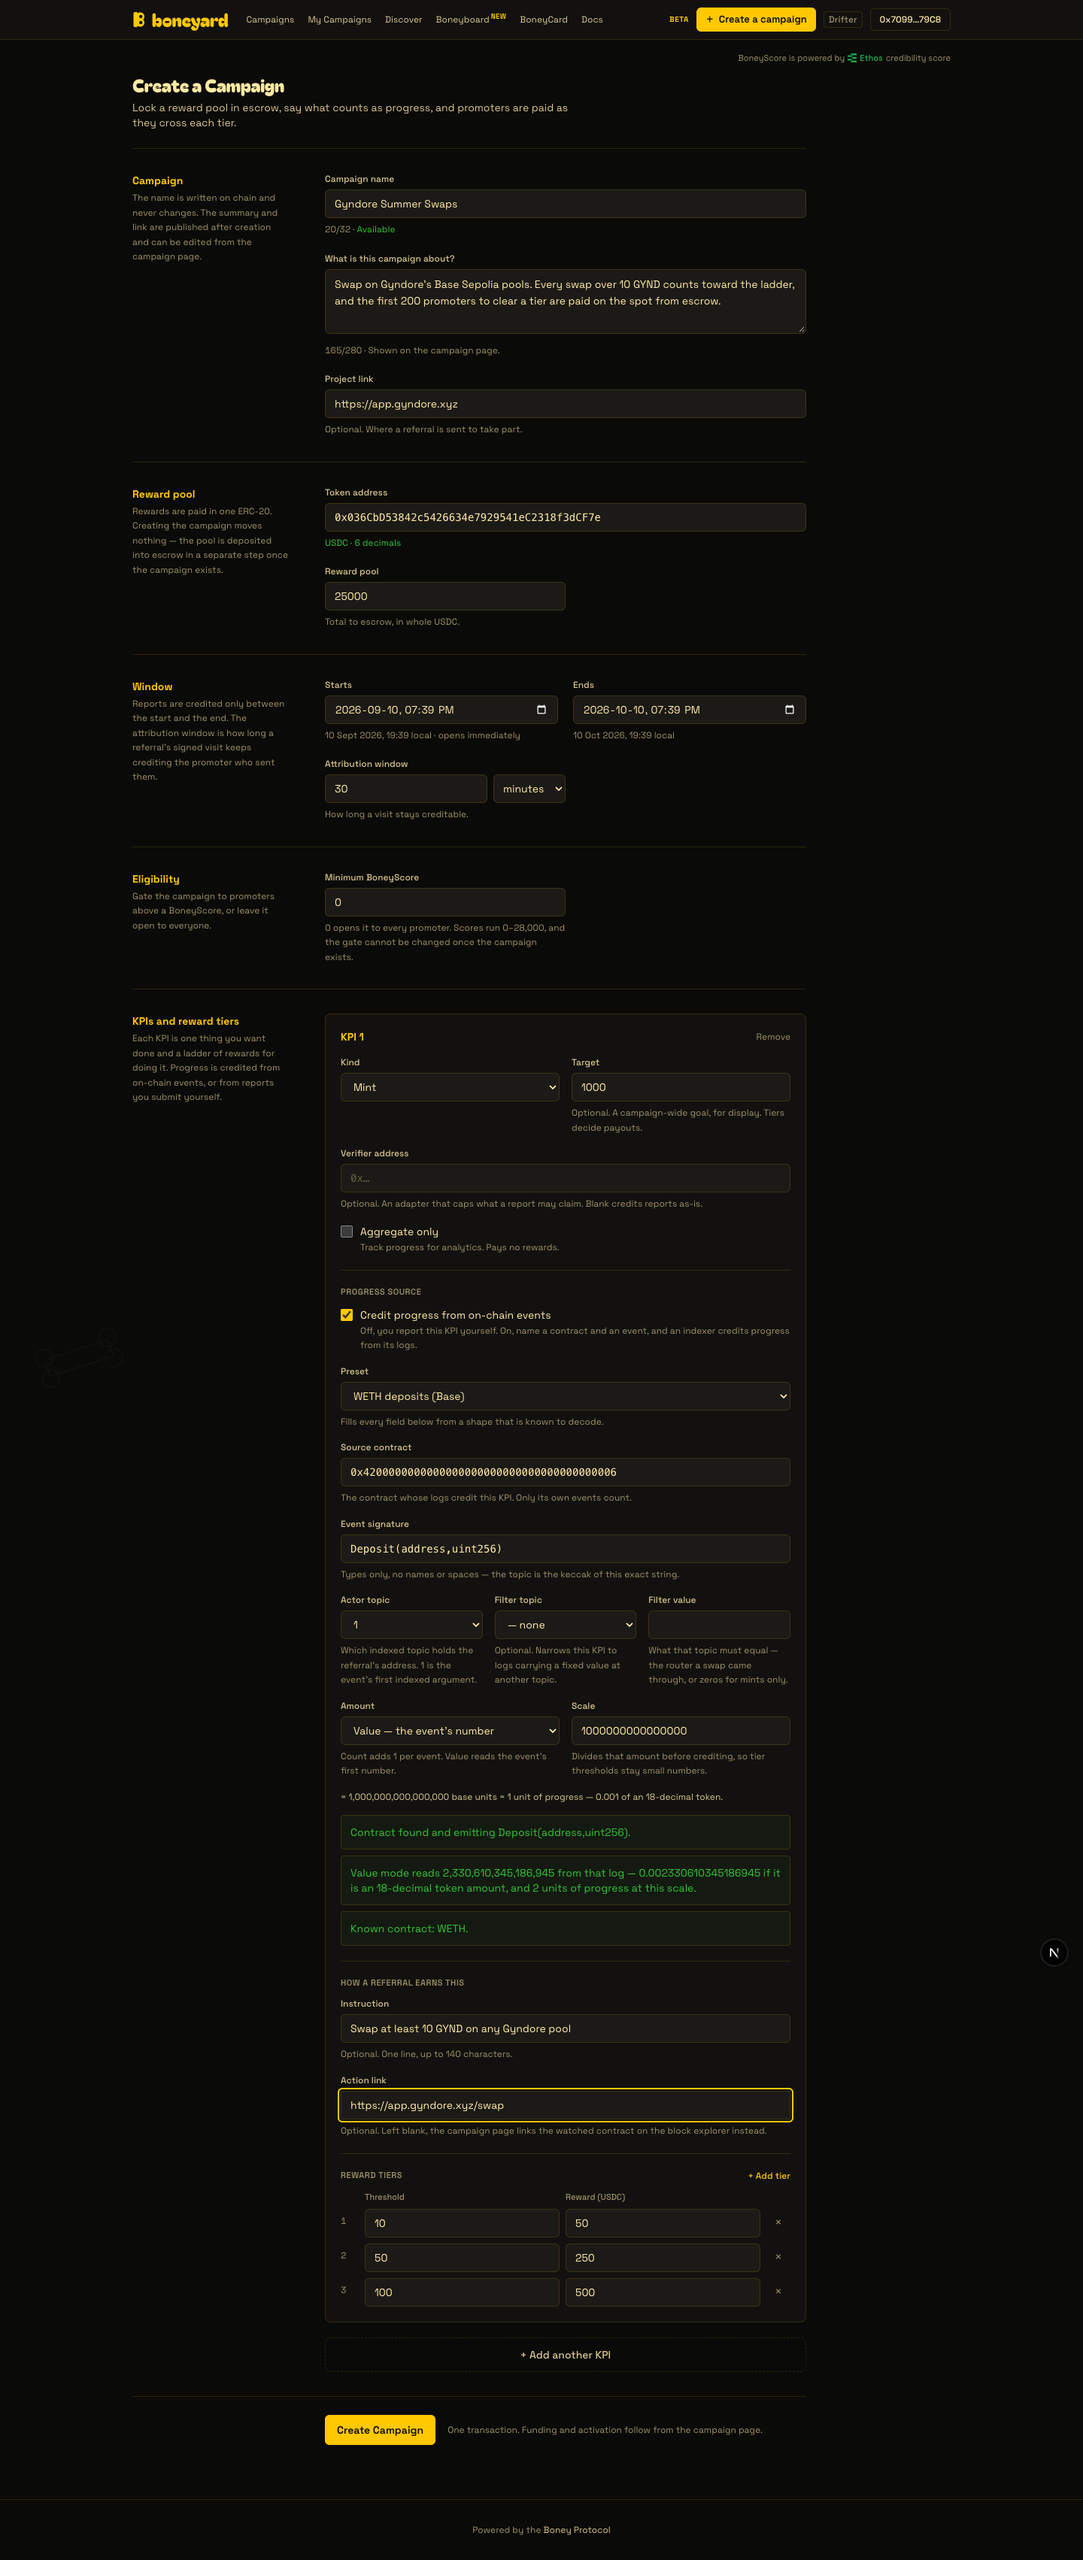
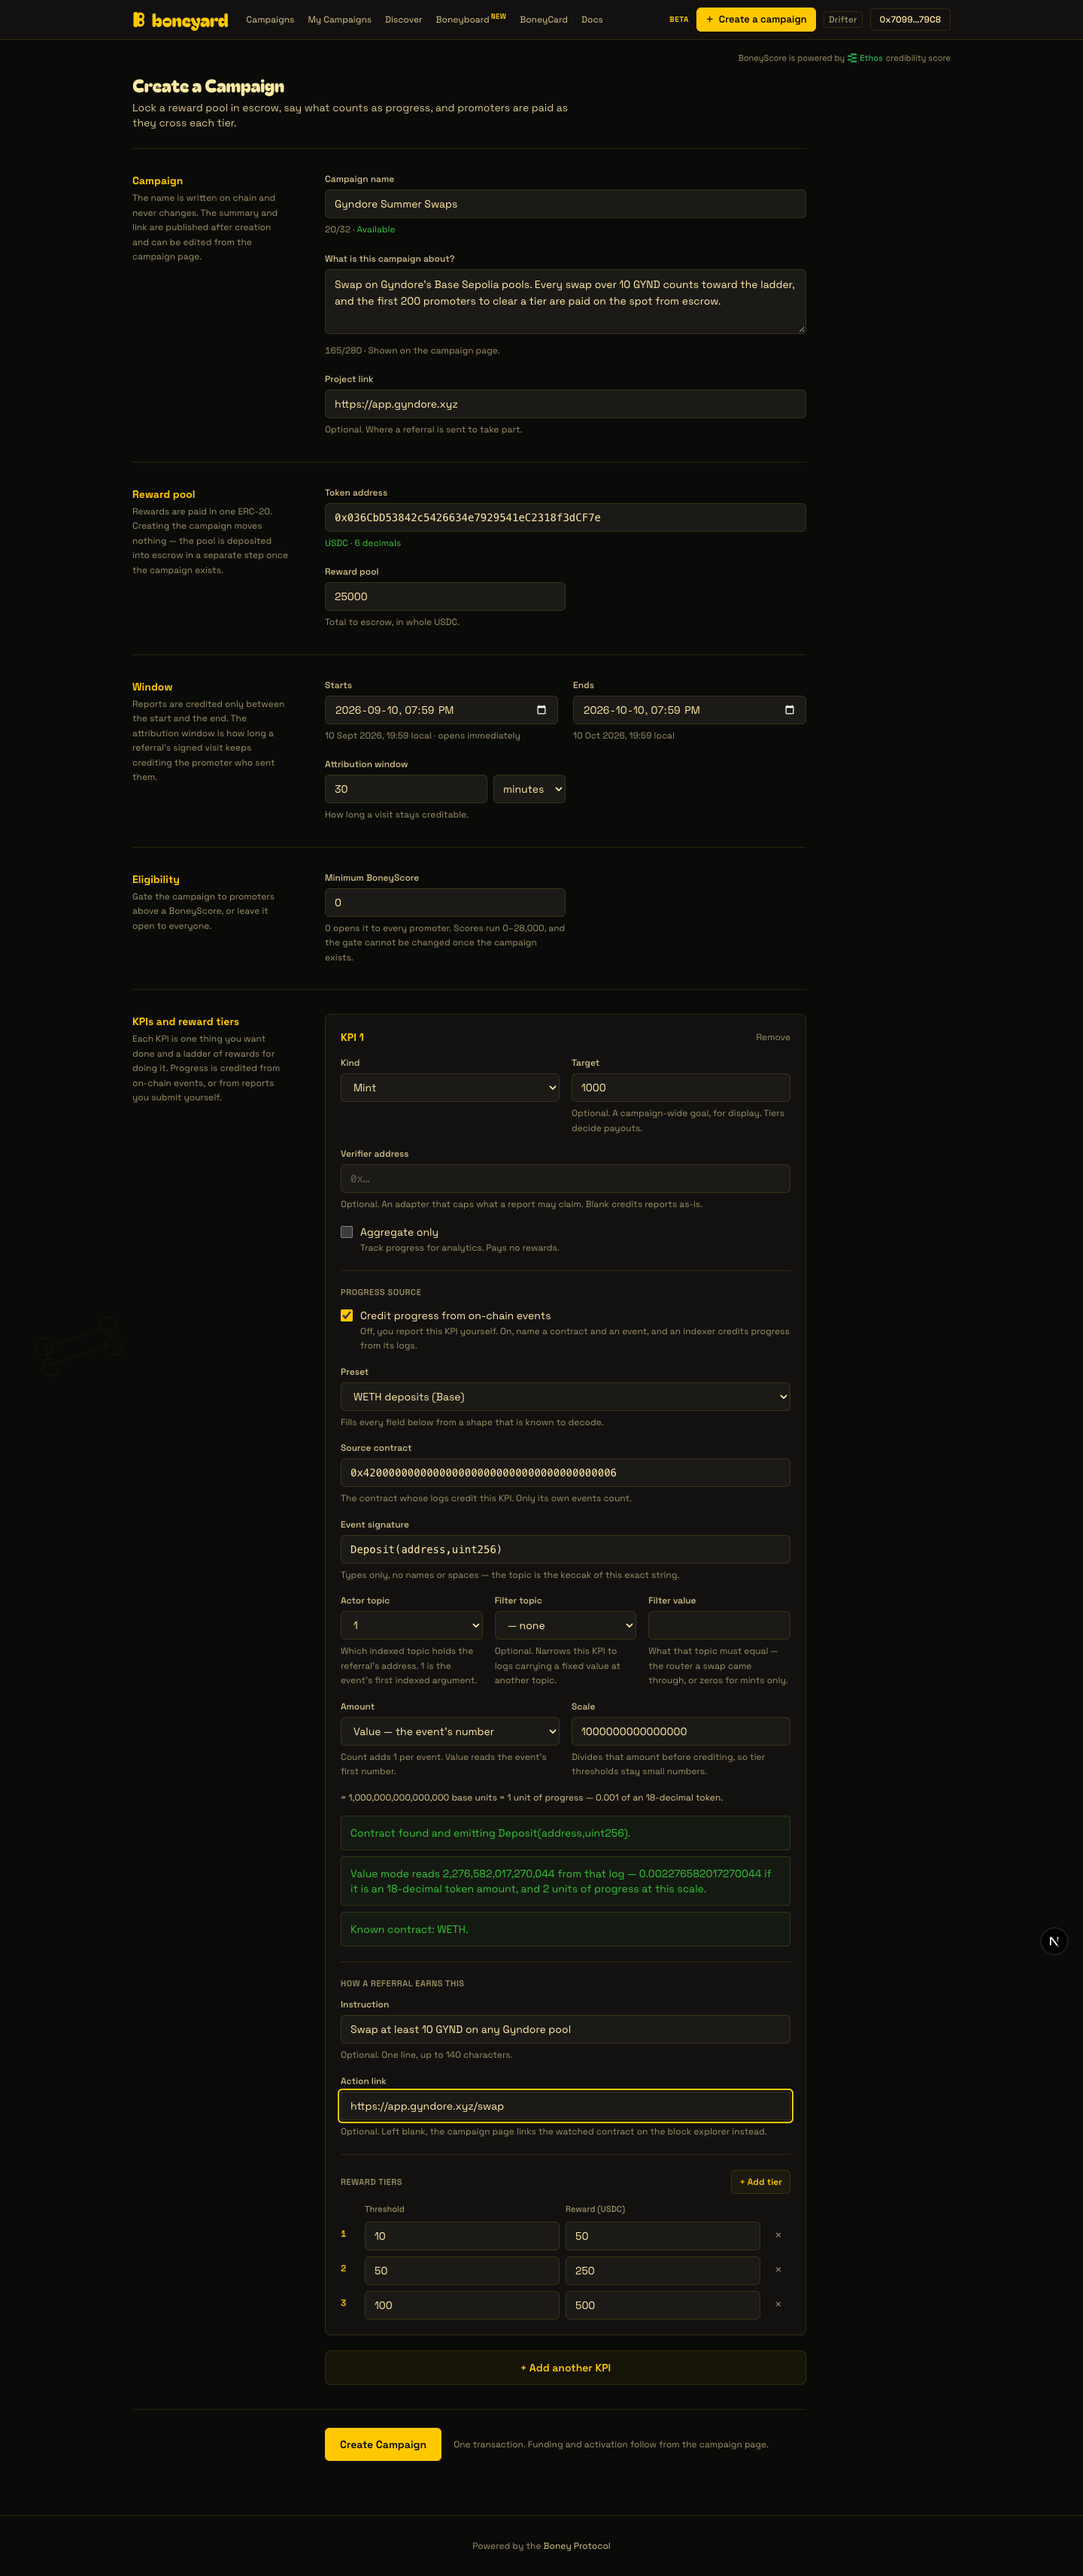
Give the add actions brand emphasis
Add KPI and Add tier become brand-outline buttons so they are found at a
glance; solid yellow stays reserved for Create Campaign. Stronger edge on
the KPI block and brand tier numbers. Refreshed after screenshots.

Claude-Session: https://claude.ai/code/session_01VqNJywrMPdSpZ1c2ewj9HX

diff --git a/web/src/components/CreateCampaignPage.tsx b/web/src/components/CreateCampaignPage.tsx
@@ -73,11 +73,23 @@ import {
 
 const SECTION_GRID = "lg:grid lg:grid-cols-[13rem_minmax(0,1fr)] lg:gap-x-12";
 
+/*
+  Button register.
+
+  Solid brand is the page's one primary action (Create Campaign), matching the nav's own Create
+  button. Actions that grow the campaign — add a KPI, add a tier — are brand outline: yellow enough
+  to be found at a glance, which a muted dashed box was not, without a second solid block competing
+  with the primary. Neutral outline is for stepping back (Reset, Try again). Removal stays quiet text
+  that only turns critical on hover, so the destructive control is never the loudest thing in a block.
+*/
 const PRIMARY_BUTTON =
-  "inline-flex min-h-10 items-center justify-center rounded-md bg-brand px-4 text-sm font-semibold text-plane transition-opacity hover:opacity-90 disabled:cursor-not-allowed disabled:opacity-50";
+  "inline-flex min-h-11 items-center justify-center rounded-md bg-brand px-5 text-sm font-semibold text-plane transition-opacity hover:opacity-90 disabled:cursor-not-allowed disabled:opacity-50";
 const SECONDARY_BUTTON =
-  "inline-flex min-h-10 items-center justify-center rounded-md border border-hairline-strong px-4 text-sm font-medium text-ink transition-colors hover:bg-surface-hover disabled:opacity-50";
-const TEXT_BUTTON = "text-xs font-medium text-brand hover:underline";
+  "inline-flex min-h-11 items-center justify-center rounded-md border border-hairline-strong px-4 text-sm font-medium text-ink transition-colors hover:bg-surface-hover disabled:opacity-50";
+const BRAND_OUTLINE_BUTTON =
+  "w-full rounded-lg border border-brand bg-brand/5 px-4 py-3 text-sm font-semibold text-brand transition-colors hover:bg-brand/15";
+const BRAND_OUTLINE_SMALL =
+  "inline-flex min-h-8 items-center justify-center rounded-md border border-brand bg-brand/5 px-2.5 text-xs font-semibold text-brand transition-colors hover:bg-brand/15";
 
 export function CreateCampaignPage() {
   const {isConnected} = useAccount();
@@ -444,11 +456,7 @@ export function CreateCampaignPage() {
           ))}
 
           {/* At the end of the list, where the next one would go, rather than a link in a header. */}
-          <button
-            type="button"
-            onClick={addKpi}
-            className="w-full rounded-lg border border-dashed border-hairline-strong px-4 py-3 text-sm font-medium text-ink-secondary transition-colors hover:bg-surface-hover hover:text-ink"
-          >
+          <button type="button" onClick={addKpi} className={BRAND_OUTLINE_BUTTON}>
             + Add another KPI
           </button>
         </FormSection>
@@ -634,7 +642,7 @@ function KpiEditor({
   const n = index + 1;
 
   return (
-    <div className="rounded-lg border border-hairline bg-surface-1 p-4 sm:p-5">
+    <div className="rounded-lg border border-hairline-strong bg-surface-1 p-4 sm:p-5">
       <div className="flex items-center justify-between gap-4">
         <h3 className="text-sm font-bold text-brand">KPI {n}</h3>
         <button
@@ -721,7 +729,7 @@ function KpiEditor({
       <Subsection
         title="Reward tiers"
         action={
-          <button type="button" onClick={onAddTier} className={TEXT_BUTTON}>
+          <button type="button" onClick={onAddTier} className={BRAND_OUTLINE_SMALL}>
             + Add tier
           </button>
         }
@@ -810,7 +818,7 @@ function TierLadder({
       </div>
       {kpi.tiers.map((tier, j) => (
         <div key={j} className={`${TIER_GRID} items-start`}>
-          <span className="tnum pt-2 text-xs text-ink-muted">{j + 1}</span>
+          <span className="tnum pt-2 text-xs font-semibold text-brand">{j + 1}</span>
           <div>
             <Field
               labelHidden
